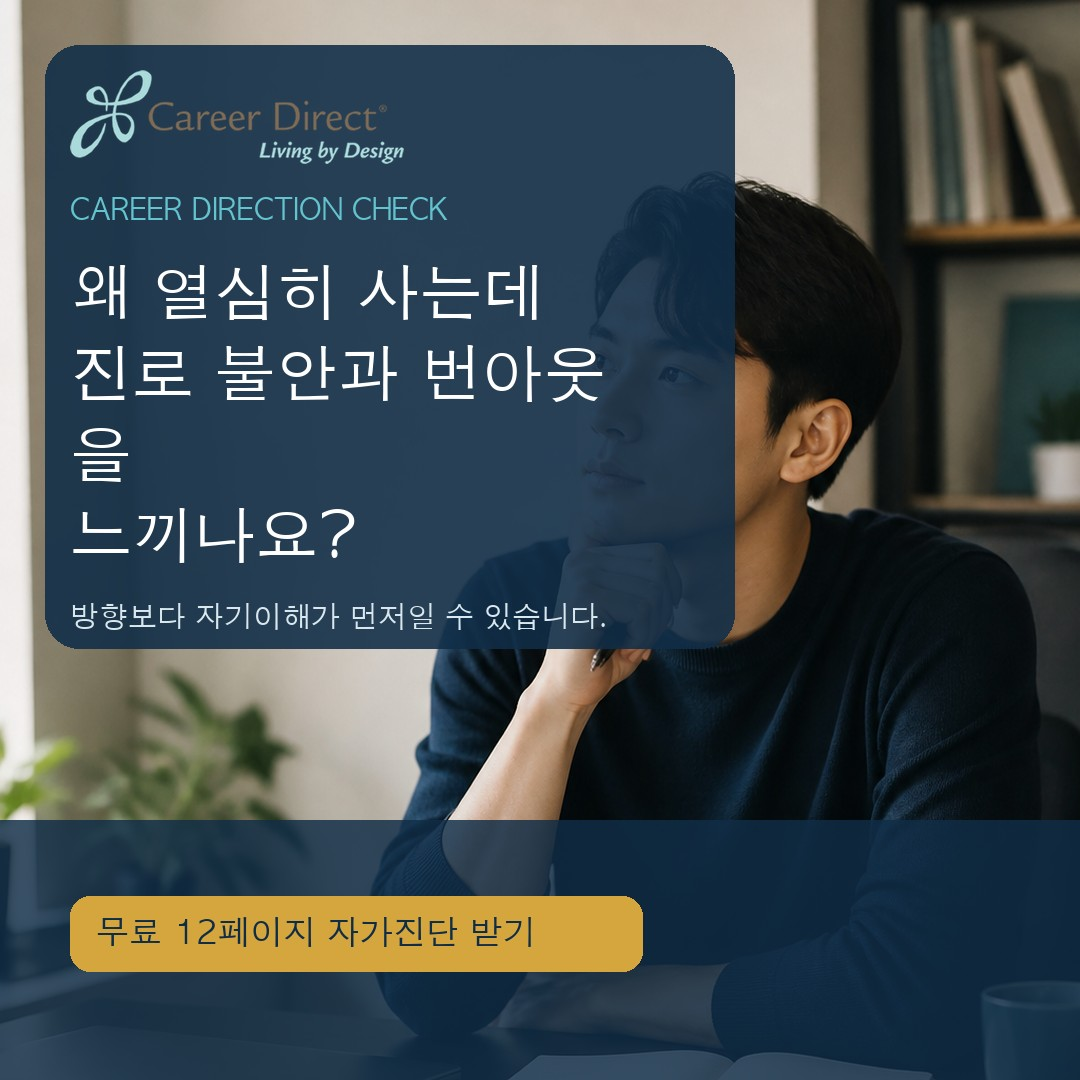
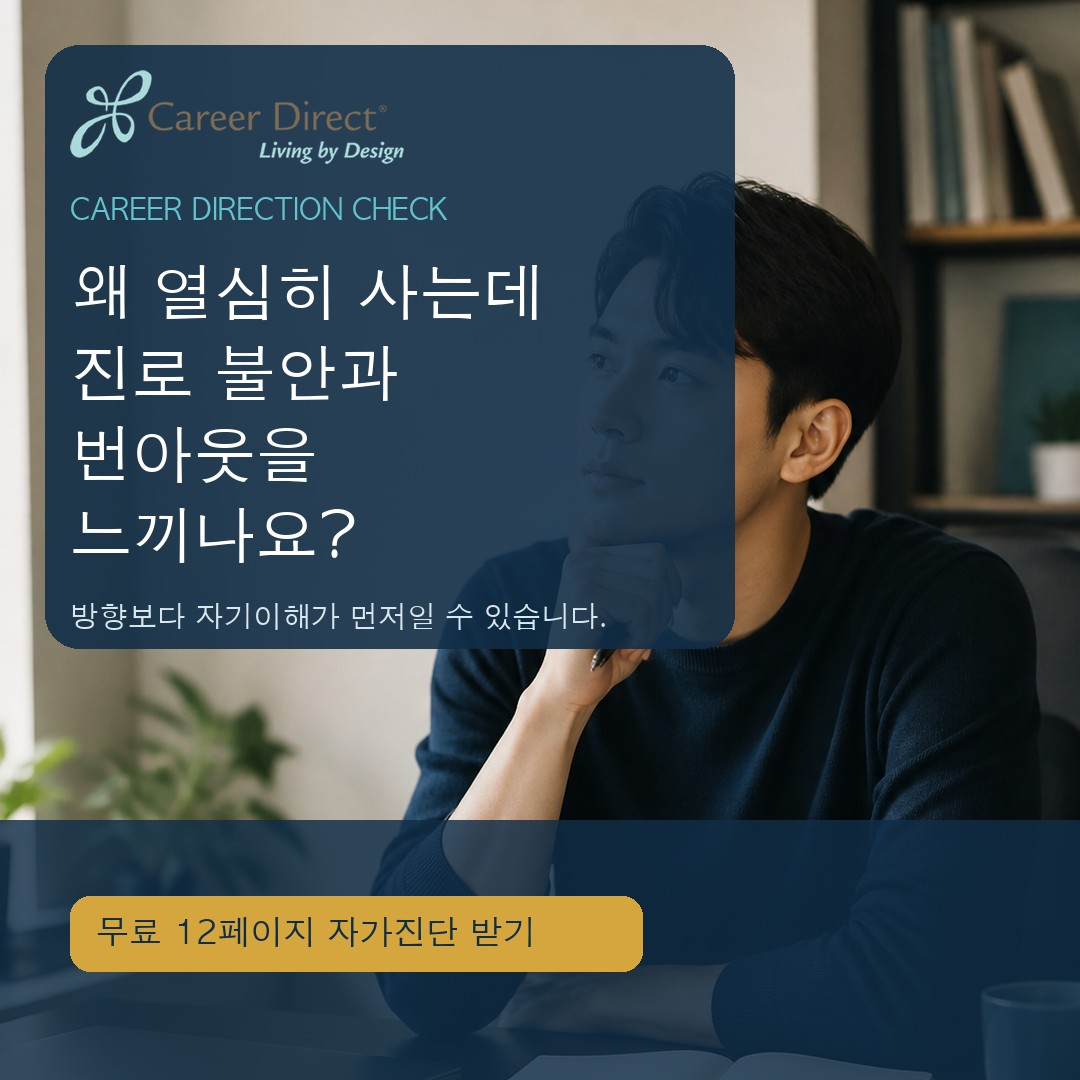
Refine empathy creative headline wrapping

Changed region(s): [[0.0611, 0.3972, 0.3056, 0.4583], [0.3972, 0.3056, 0.55, 0.3667]]

diff --git a/campaigns/career-direction-pilot-2026q3/source/generate-creatives.py b/campaigns/career-direction-pilot-2026q3/source/generate-creatives.py
@@ -113,7 +113,7 @@ def empathy(size: tuple[int, int], name: str, story: bool = False) -> None:
     margin = 78 if story else 70
     place_logo(base, int(w * .31), (margin, margin))
     draw.text((margin, int(h * .18)), "CAREER DIRECTION CHECK", font=font(int(w * .027)), fill=TEAL)
-    headline = "왜 열심히 사는데\n진로 불안과 번아웃을\n느끼나요?"
+    headline = "왜 열심히 사는데\n진로 불안과\n번아웃을\n느끼나요?"
     y = text_block(draw, (margin, int(h * .24)), headline, font(int(w * (.062 if story else .058))), WHITE,
                    panel_w - margin * 2, spacing=int(w * .018))
     draw.text((margin, y + 18), "방향보다 자기이해가 먼저일 수 있습니다.", font=font(int(w * .027)), fill="#D8E8EE")
